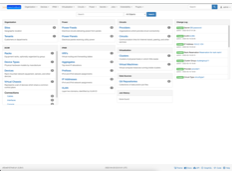
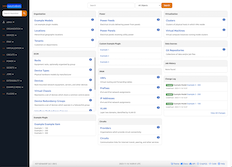
Fix 4816 (#4818)
* Fix dark mode navbar link colors

* Add space between button rows

* Update modal theme screenshots

* Fix table row background color

* Add changelog

* Update row background color to match homepage

* Fix nav-tabs border in dark mode

* Adjust text color

* Fix selected text bug with iGraphQL page

* Fix black background for Swagger API doc rows

* fix minor template error

---------

diff --git a/nautobot/project-static/css/dark.css b/nautobot/project-static/css/dark.css
@@ -48,8 +48,10 @@ html[data-theme="dark"] .list-group,                      /* Section panels cont
 html[data-theme="dark"] .list-group-item,                 /* Item in section panels content, like on home page */
 html[data-theme="dark"] .CodeMirror,                      /* GraphiQL page */
 html[data-theme="dark"] .search-box input,                /* GraphiQL docs tab search box */
+html[data-theme="dark"] .table-headings tr,               /* Table rows */
 html[data-theme="dark"] .modal-body {                     /* Modal background */
   background-color: rgb(222, 222, 222) !important;
+  color: rgb(70, 70, 70) !important;                    /* Slightly darken text color */
 }
 
 /* Slightly lighter than background to standout */
@@ -63,9 +65,10 @@ html[data-theme="dark"] .panel-heading,                   /* Panel header bars *
 html[data-theme="dark"] .panel-footer,                    /* Panel footer bars */
 html[data-theme="dark"] .modal-header,                    /* Header bar in modals */
 html[data-theme="dark"] .modal-footer,                    /* Footer bar in modals */
-html[data-theme="dark"] .table-headings th {
+html[data-theme="dark"] .table-headings th {              /* Table header bar */
   background-color: rgb(196, 204, 210) !important;
 }
+
 
 html[data-theme="dark"] .scheme-container {                /* Swagger docs container header bar */
   background-color: rgb(217, 217, 217) !important;
@@ -78,9 +81,25 @@ html[data-theme="dark"] .CodeMirror-gutters {              /* GraphiQL primary b
   background-color: rgb(217, 217, 217) !important;
 }
 
-/* Preserve blue text color on selected tabs */
-html[data-theme="dark"] .nav-tabs>li.active>a {
-  color: rgb(72, 133, 204);
+/* Preserve border line across bottom of tabs row */
+html[data-theme="dark"] .nav-tabs {
+  border-bottom: 1px solid rgb(100, 100, 100);
+}
+
+/* Preserve border lines around active tab in tabs row */
+html[data-theme="dark"] .nav-tabs>li.active>a,
+html[data-theme="dark"] .nav-tabs>li.active>a:focus,
+html[data-theme="dark"] .nav-tabs>li.active>a:hover {
+  border: 1px solid rgb(100, 100, 100);                 /* Border left/top/right around active tab */
+  border-bottom-color: transparent;                       /* Hides bottom border for active tab */
+  border-radius: 6px 6px 0 0;                             /* Rounds top border corners of active tab */
+  background-color: rgb(217, 217, 217) !important;      /* Blends active tab with background */
+}
+
+/* Preserve matching background in iGraphQL text boxes */
+/* Also fixes bug preventing selected text from being distinguised as selected */
+html[data-theme="dark"] .CodeMirror pre {
+  background: transparent !important;
 }
 
 /* Swagger API Docs */
@@ -93,9 +112,14 @@ html[data-theme="dark"] .swagger-ui select {
 
 html[data-theme="dark"] .swagger-ui input,                /* Swagger docs item input input box */
 html[data-theme="dark"] .swagger-ui select,               /* Swagger docs item select input box */
-html[data-theme="dark"] .swagger-ui textarea{             /* Swagger docs item text area input box */
+html[data-theme="dark"] .swagger-ui textarea {            /* Swagger docs item text area input box */
   background: transparent !important;
   border: 1px solid #888 !important;
+}
+
+/* Swagger docs table item background */
+html[data-theme="dark"] .swagger-ui table {                
+  background: transparent !important;
 }
 
 /* Section headers in swagger docs items */
@@ -126,6 +150,18 @@ html[data-theme="dark"] .select2-search--inline,          /* Search field in fil
 html[data-theme="dark"] .select2-close-mask,              /* Close selection */
 html[data-theme="dark"] .select2-dropdown {               /* Dropdown form fields */
   background-color: rgb(222, 222, 222) !important;
+}
+
+html[data-theme="dark"] .navbar-nav>li>a {                /* Navbar top level menu dropdown links */
+  color: rgb(100, 100, 100) !important;
+}
+
+html[data-theme="dark"] .navbar-nav>li>a:hover {          /* Navbar top level menu dropdown links on hover */
+  color: rgb(224, 120, 7) !important;
+}
+
+html[data-theme="dark"] .dropdown-menu>li>a {             /* Navbar dropdown text links */
+  color: rgb(51, 51, 51) !important;
 }
 
 /* This is already inverted as a button above, however we do not want it to be */

diff --git a/nautobot/core/templates/utilities/templatetags/table_config_form.html b/nautobot/core/templates/utilities/templatetags/table_config_form.html
@@ -16,6 +16,7 @@
                             <a class="btn btn-success btn-xs" id="select-all-options" data-target="id_columns"><i class="mdi mdi-expand-all-outline"></i> Select all</a>
                         </div>
                     </div>
+                    <br />
                     <div class="text-right">
                         <input type="submit" class="btn btn-primary" value="Save" />
                         <input type="submit" class="btn btn-danger reset" value="Reset" />

diff --git a/nautobot/dcim/templates/dcim/location.html b/nautobot/dcim/templates/dcim/location.html
@@ -173,7 +173,7 @@
         <div class="panel-heading">
             <strong>Stats</strong>
         </div>
-        <div class="row panel-body">
+        <div class="panel-body">
             <div class="col-md-4 text-center">
                 <h2><a href="{% url 'dcim:rack_list' %}?location={{ object.pk }}" class="btn {% if stats.rack_count %}btn-primary{% else %}btn-default{% endif %} btn-lg">{{ stats.rack_count }}</a></h2>
                 <p>Racks</p>
